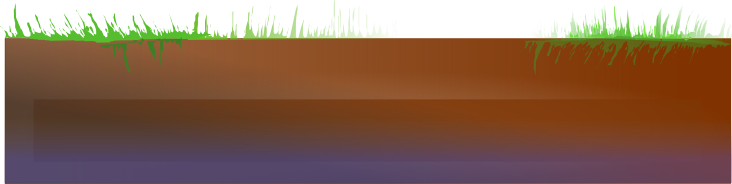
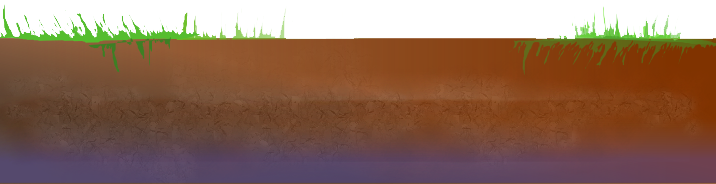
graffaa vol 2

diff --git a/js/game.js b/js/game.js
@@ -6,10 +6,10 @@ var weapon;
 var cursors;
 var fireButton;
 var platforms;
-var bulletScale = 0.05;
-var rocketScale = 0.01;
-var playerScale = 0.05;
-var enemyScale = 0.08;
+var bulletScale = 0.25;
+var rocketScale = 1;
+var playerScale = 0.75;
+var enemyScale = 0.25;
 var playerHealth = 3; //debug
 var playAgainButton;
 var enemies;
@@ -72,14 +72,15 @@ function createWeapons(name, image, speed, rate, efficiency, automatic, whoseGun
 // Preload images
 function preload() {
     game.load.image('flower', 'assets/flower.png');
-    game.load.image('triangle', 'assets/triangle-transp.png');
-    game.load.image('circle', 'assets/purple-circle.png');
-    game.load.image('enemyAttack', 'assets/enemy.png');
-    game.load.image('land', 'assets/land.png');
+    game.load.image('triangle', 'assets/cannon_blue.png');
+    game.load.image('circle', 'assets/drop_1_rotate.png');
+    game.load.image('enemyAttack', 'assets/drop_2.png');
+    game.load.image('land', 'assets/base_land.png');
     game.load.image('enemyLand', 'assets/enemyLand.png');
     game.load.image('gameover', 'assets/gameover.png');
     game.load.image('playagain', 'assets/playagain.png');
     game.load.image('invisible-box', 'assets/invisible.png');
+    game.load.image('saladsprite', 'assets/saladsprite.png');
 
 }
 
